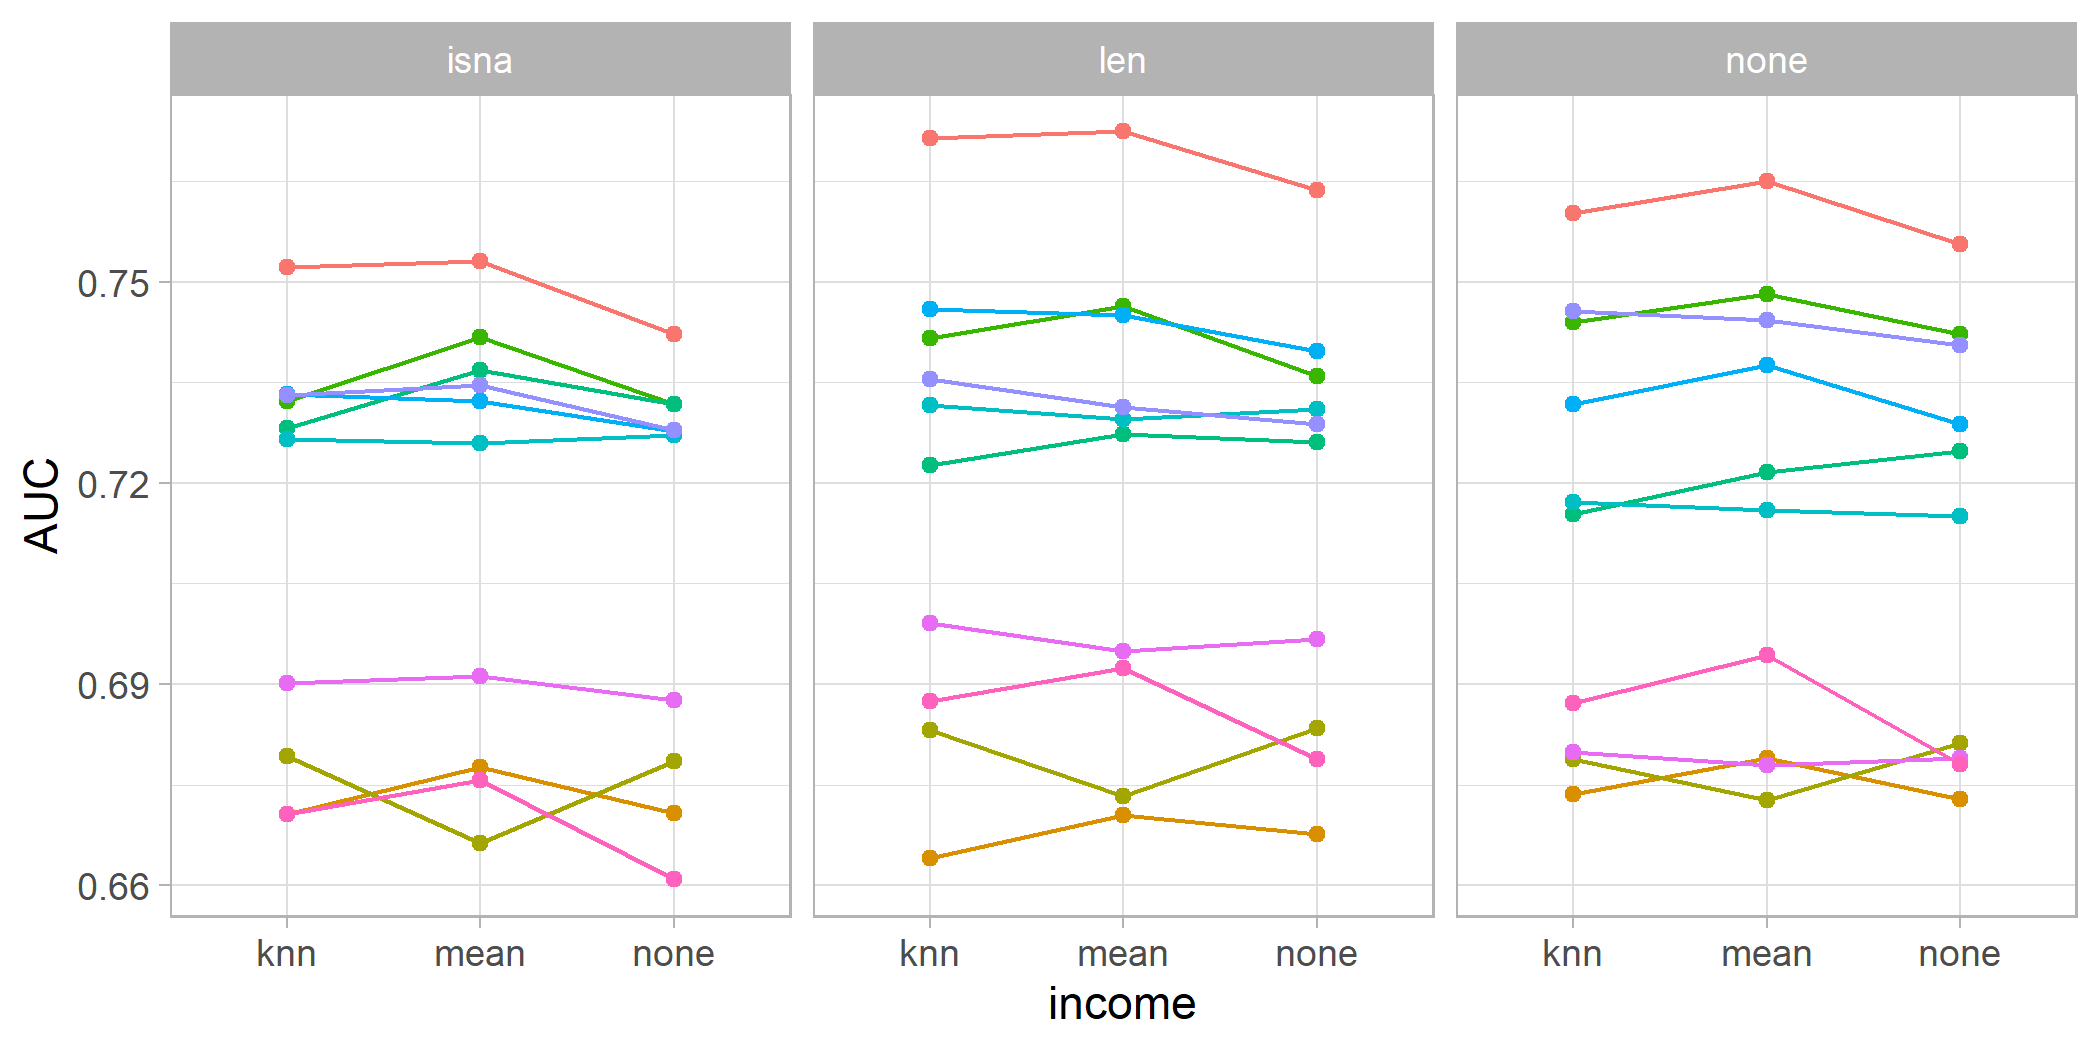
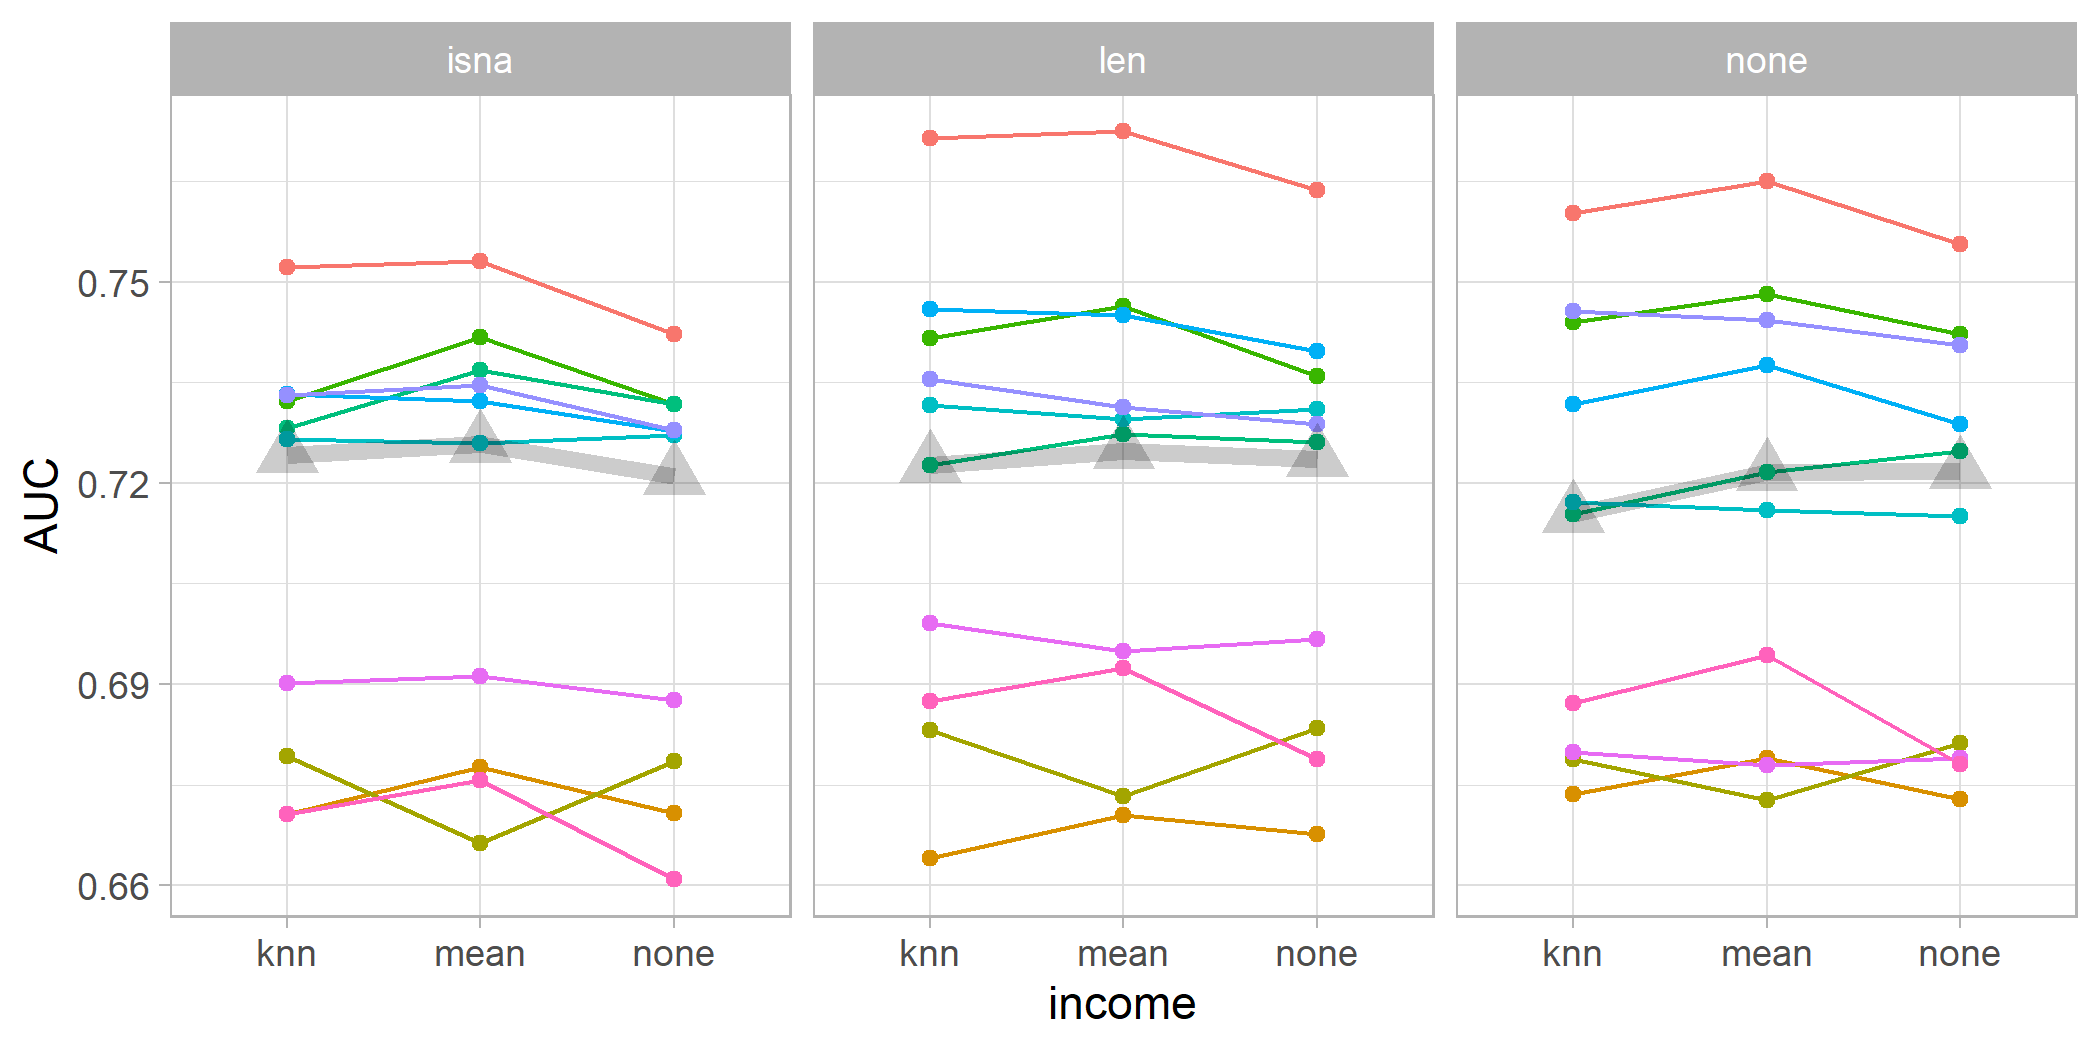
FES finishes up to numerical vars

Changed region(s): [[0.7119, 0.4267, 0.9595, 0.5181], [0.1238, 0.3962, 0.3405, 0.4876], [0.4333, 0.3962, 0.65, 0.4571]]

diff --git a/u3_d04-featureeng/u3_d04-featureeng.html b/u3_d04-featureeng/u3_d04-featureeng.html
@@ -1085,10 +1085,13 @@ cv_res_missing
 Comparing AUCs with a plot
 
 
+
+
 ```r
 cv_res_missing %&gt;%
   ggplot(aes(income, AUC, group = id, color = id)) +
-    geom_line() + geom_point() +
+  geom_line() + geom_line(data = cv_res_missing_meds, color = "black", alpha = 0.2, lwd = 2) +
+  geom_point() + geom_point(data = cv_res_missing_meds, color = "black", alpha = 0.2, size = 5, pch = 17) +
     guides(color = FALSE) + facet_wrap(. ~ categorical) +
     theme_light()
 ```
@@ -1192,13 +1195,15 @@ cv_res_missing &lt;- cv_splits_missing %&gt;%
 Again, see the plot .font80percent[(how would you plot a 2x3x3 experiment results?)].
 
 
+
+
 ```r
 cv_res_missing %&gt;%
   group_by(id, income, essay) %&gt;%
   summarise(AUC = mean(AUC)) %&gt;%
   ggplot(aes(income, AUC, group = id, color = id)) +
-    geom_line() +
-    geom_point() +
+    geom_line() + geom_line(data = cv_res_missing_meds, color = "black", alpha = 0.2, lwd = 2) +
+  geom_point() + geom_point(data = cv_res_missing_meds, color = "black", alpha = 0.2, size = 5, pch = 17) +
     guides(color = FALSE) + facet_wrap(. ~ essay) +
     theme_light()
 ```
@@ -1425,11 +1430,13 @@ print(summary(aov_imbalance))
 Plotting...
 
 
+
+
 ```r
 cv_res_imbalance %&gt;%
   ggplot(aes(recipe, AUC, group = id, color = id)) +
-    geom_line() +
-    geom_point() +
+    geom_line() + geom_line(data = cv_res_imbalance_meds, color = "black", alpha = 0.2, lwd = 2) +
+  geom_point() + geom_point(data = cv_res_imbalance_meds, color = "black", alpha = 0.2, size = 5, pch = 17) +
     guides(color = FALSE) +
     theme_light()
 ```
@@ -2557,6 +2564,8 @@ rec_eng_catdog &lt;- recipe(pets ~ ., data = ok_tr_eng2) %&gt;%
 
 
 
+
+
 &lt;img src="images/Ok-FES1-1.png" width="100%" /&gt;
 
 ---
@@ -2612,9 +2621,10 @@ print(textfeatures::word_dims(
 ```
 
 ```
-## INFO  [10:27:41.208] early stopping at 20 iteration 
-##   w1   w2 w3   w4 w5 w6   w7   w8 w9 w10
-## 1  0 0.35  0 0.45  0  0 0.05 0.15  0   0
+## INFO  [21:55:09.299] early stopping at 20 iteration 
+## INFO  [21:55:09.345] early stopping at 20 iteration 
+##   w1   w2  w3 w4 w5  w6   w7 w8  w9 w10
+## 1  0 0.05 0.3  0  0 0.5 0.05  0 0.1   0
 ```
 
 ---
@@ -2776,25 +2786,36 @@ or_res
 ```r
 cd_words &lt;- or_res %&gt;%
   arrange(fdr) %&gt;%
-  filter(fdr &lt; 10e-5)
+  filter(fdr &lt; 10e-4)
 
 cd_words
 ```
 
 ```
-## # A tibble: 9 x 7
-##   word     cats  dogs fisher_obj           OR    p_val      fdr
-##   &lt;chr&gt;   &lt;int&gt; &lt;int&gt; &lt;list&gt;            &lt;dbl&gt;    &lt;dbl&gt;    &lt;dbl&gt;
-## 1 cat        55    37 &lt;named list [2]&gt;  8.37  1.06e-21 8.53e-19
-## 2 cats       43    21 &lt;named list [2]&gt; 11.3   5.37e-20 2.17e-17
-## 3 class      73   151 &lt;named list [2]&gt;  2.71  4.72e-10 9.54e- 8
-## 4 href       59   106 &lt;named list [2]&gt;  3.08  4.40e-10 9.54e- 8
-## 5 ilink      57   101 &lt;named list [2]&gt;  3.11  6.79e-10 1.10e- 7
-## 6 dog        12   247 &lt;named list [2]&gt;  0.228 2.19e- 9 2.95e- 7
-## 7 writing    62   127 &lt;named list [2]&gt;  2.69  1.08e- 8 1.25e- 6
-## 8 strange    24    28 &lt;named list [2]&gt;  4.53  4.03e- 7 4.07e- 5
-## 9 dr         24    29 &lt;named list [2]&gt;  4.37  6.26e- 7 5.62e- 5
+## # A tibble: 37 x 7
+##    word     cats  dogs fisher_obj           OR    p_val      fdr
+##    &lt;chr&gt;   &lt;int&gt; &lt;int&gt; &lt;list&gt;            &lt;dbl&gt;    &lt;dbl&gt;    &lt;dbl&gt;
+##  1 cat        55    37 &lt;named list [2]&gt;  8.37  1.06e-21 8.53e-19
+##  2 cats       43    21 &lt;named list [2]&gt; 11.3   5.37e-20 2.17e-17
+##  3 class      73   151 &lt;named list [2]&gt;  2.71  4.72e-10 9.54e- 8
+##  4 href       59   106 &lt;named list [2]&gt;  3.08  4.40e-10 9.54e- 8
+##  5 ilink      57   101 &lt;named list [2]&gt;  3.11  6.79e-10 1.10e- 7
+##  6 dog        12   247 &lt;named list [2]&gt;  0.228 2.19e- 9 2.95e- 7
+##  7 writing    62   127 &lt;named list [2]&gt;  2.69  1.08e- 8 1.25e- 6
+##  8 strange    24    28 &lt;named list [2]&gt;  4.53  4.03e- 7 4.07e- 5
+##  9 dr         24    29 &lt;named list [2]&gt;  4.37  6.26e- 7 5.62e- 5
+## 10 dogs        5   138 &lt;named list [2]&gt;  0.176 1.31e- 6 1.03e- 4
+## # ... with 27 more rows
 ```
+
+---
+
+So these will be our four options for handling text:
+
+1. Not
+2. Text features (zero for `NA`)
+3. Text features + our flagged words counts (zero for `NA`)
+4. Feature Hashing
 
 ---
 
@@ -2838,7 +2859,7 @@ rec_eng_textfeat &lt;- recipe(pets ~ ., data = ok_tr_eng3) %&gt;%
   step_mutate_at(starts_with("t_"), fn = ~ifelse(is.na(.x), 0, .x)) %&gt;%
   step_log(income, starts_with("t_"), -t_essays_sent_bing, offset = 1) %&gt;%
   step_meanimpute(income) %&gt;%
-  step_nzv(all_numeric(), freq_cut = 99/1) %&gt;%
+  step_zv(all_numeric()) %&gt;%
   step_normalize(all_numeric(), -has_role("discarded")) %&gt;%
   step_other(all_nominal(), -has_role("discarded"), other = "other1") %&gt;%
   step_novel(all_nominal(), -has_role("discarded"), -all_outcomes()) %&gt;%
@@ -2859,7 +2880,23 @@ rec_eng_fulltext &lt;- recipe(pets ~ ., data = ok_tr_eng3) %&gt;%
   step_mutate_at(starts_with("t_"), fn = ~ifelse(is.na(.x), 0, .x)) %&gt;%
   step_log(income, starts_with("t_"), -t_essays_sent_bing, offset = 1) %&gt;%
   step_meanimpute(income) %&gt;%
-  step_nzv(all_numeric(), freq_cut = 99/1) %&gt;%
+  step_zv(all_numeric()) %&gt;%
+  step_normalize(all_numeric(), -has_role("discarded")) %&gt;%
+  step_other(all_nominal(), -has_role("discarded"), other = "other1") %&gt;%
+  step_novel(all_nominal(), -has_role("discarded"), -all_outcomes()) %&gt;%
+  step_modeimpute(all_nominal(), -has_role("discarded"), -all_outcomes()) %&gt;%
+  step_dummy(all_nominal(), -all_outcomes(),
+             -has_role("discarded"), one_hot = FALSE) %&gt;%
+  step_upsample(pets, over_ratio = 1)
+
+rec_eng_hashtext &lt;- recipe(pets ~ ., data = ok_tr_eng3) %&gt;%
+  update_role(starts_with("w_"), essays, new_role = "discarded") %&gt;%
+  step_tokenize(essays) %&gt;%
+  step_tokenfilter(essays, min_times = 10) %&gt;%
+  step_texthash(essays, num_terms = 2^11) %&gt;%
+  step_log(income, offset = 1) %&gt;%
+  step_meanimpute(income) %&gt;%
+  step_zv(all_numeric()) %&gt;%
   step_normalize(all_numeric(), -has_role("discarded")) %&gt;%
   step_other(all_nominal(), -has_role("discarded"), other = "other1") %&gt;%
   step_novel(all_nominal(), -has_role("discarded"), -all_outcomes()) %&gt;%
@@ -2878,7 +2915,8 @@ cv_splits_eng &lt;- vfold_cv(ok_tr_eng3, v = 10, strata = pets)
 
 lst_recs &lt;- list("notext" = rec_eng_notext,
                  "textfeat" = rec_eng_textfeat,
-                 "fulltext" = rec_eng_fulltext)
+                 "fulltext" = rec_eng_fulltext,
+                 "hashtext" = rec_eng_hashtext)
 ```
 
 
@@ -2891,6 +2929,10 @@ cv_res_eng &lt;- cv_splits_eng %&gt;%
   pivot_longer(cols = names(lst_recs),
                  names_to = "recipe", values_to = "AUC") %&gt;%
   select(id, recipe, AUC)
+
+cv_res_eng_meds &lt;- cv_res_eng %&gt;%
+  group_by(recipe) %&gt;%
+  summarise(AUC = median(AUC), id = "All")
 ```
 
 
@@ -2900,12 +2942,12 @@ cv_res_eng &lt;- cv_splits_eng %&gt;%
 
 ```r
 cv_res_eng %&gt;%
-  mutate(recipe = fct_relevel(recipe, c("notext", "textfeat", "fulltext"))) %&gt;%
+  mutate(recipe = fct_relevel(recipe,
+                              c("notext", "textfeat", "fulltext", "hashtext"))) %&gt;%
   ggplot(aes(recipe, AUC, group = id, color = id)) +
-  geom_line() +
-  geom_point() +
-  guides(color = FALSE) +
-  theme_light()
+  geom_line() + geom_line(data = cv_res_eng_meds, color = "black", alpha = 0.2, lwd = 2) +
+  geom_point() + geom_point(data = cv_res_eng_meds, color = "black", alpha = 0.2, size = 5, pch = 17) +
+  guides(color = FALSE) + theme_light()
 ```
 
 &lt;img src="images/Ok-FES2-1.png" width="100%" /&gt;
